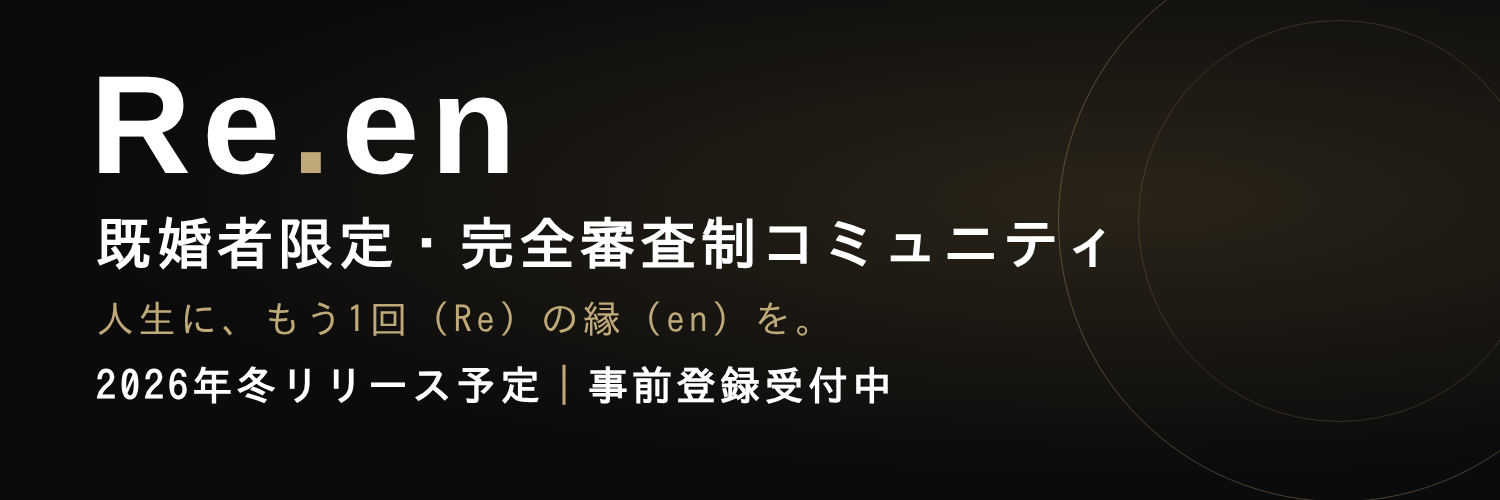
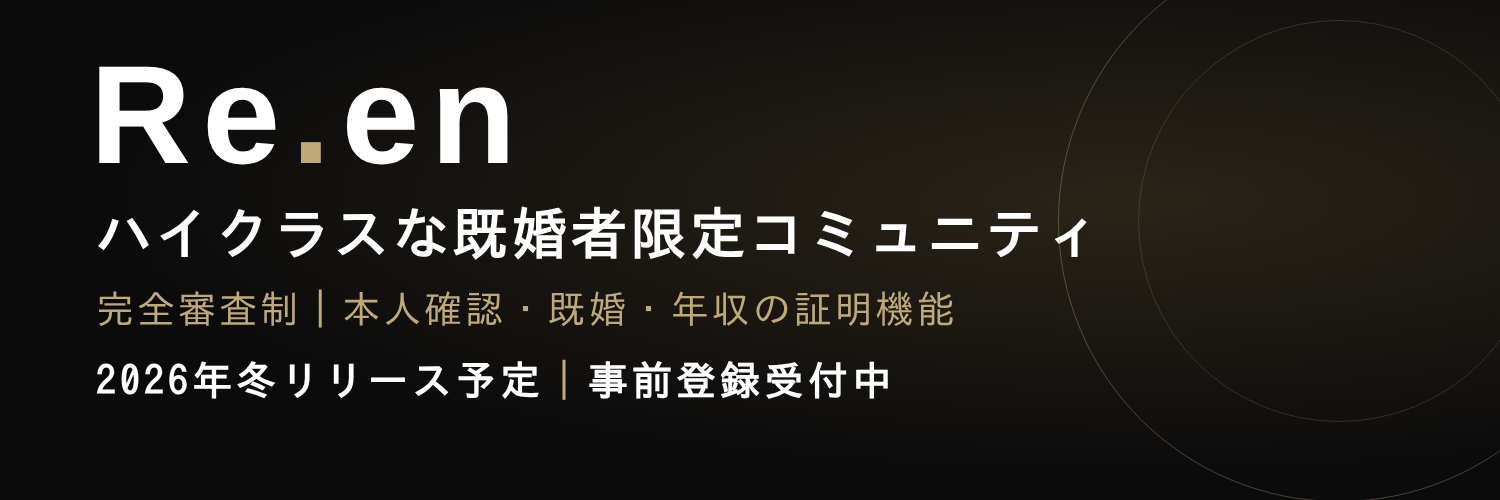
Rework X header, bio, pinned posts and first 5 posts around high-class positioning
Claude-Session: https://claude.ai/code/session_01YNCV2kFVxogiruuDrDwfHA

diff --git a/docs/marketing/x/account_setup_and_first_posts.md b/docs/marketing/x/account_setup_and_first_posts.md
@@ -1,121 +1,139 @@
-# Re.en 公式X：アカウント設定素材 ＋ 最初の投稿5本（確認用ドラフト）
+# Re.en 公式X：アカウント設定素材 ＋ 投稿案（ハイクラス版）
 
 作成日: 2026-10-10 / 状態: **ユーザー確認待ち（未投稿）**
 
+差別化の軸: **ハイクラスな既婚者限定・完全審査制のコミュニティ**（他社の既婚者マッチングとの違い）。
 事実の出どころは `index.html` / `pricing.html`（2026-10-10時点）。LPに無い数字・機能・実績は書かない。
 
 ---
 
 ## 1. アカウント設定
 
-### 基本情報
 | 項目 | 推奨 |
 |---|---|
-| 表示名 | `Re.en（リエン）｜既婚者限定・完全審査制` |
-| ユーザー名（@） | 候補: `@reen_jp` / `@reen_official` / `@reen_club`（空いている最初のもの。取得後に確認） |
-| アイコン | `assets/x_icon_400x400.png`（既存のfaviconと同一ブランド） |
-| ヘッダー | `assets/x_header_1500x500.png`（スマホは左右が少し切れるため文字を左寄せにしてある） |
-| 場所 | 日本 |
+| 表示名 | `Re.en（リエン）｜ハイクラス既婚者限定`（50字以内） |
+| ユーザー名（@） | 候補: `@Reen_jp`（推奨）/ `@Reen_official` / `@Reen_club`（`@Reen` は使用済み） |
+| アイコン | `assets/x_icon_400x400.png` |
+| ヘッダー | `assets/x_header_1500x500.png`（「ハイクラスな既婚者限定コミュニティ」「完全審査制｜本人確認・既婚・年収の証明機能」「2026年冬リリース予定｜事前登録受付中」） |
 | Webサイト | `https://re-en.jp/preregister.html?utm_source=x&utm_medium=profile&utm_campaign=bio` |
 
-### プロフィール文（160字以内。候補A推奨）
-
-**候補A（安心・審査を前面に）**
+### プロフィール文（候補A推奨）
+**候補A**
 ```
-既婚者限定・完全審査制のコミュニティ「Re.en」の公式です。
-本人確認済み／写真ぼかし／電話番号ブロックで、安心して使える設計。
+ハイクラスな既婚者のための、完全審査制コミュニティ「Re.en」公式。
+本人確認・既婚証明・年収証明の機能と、写真ぼかし／電話番号ブロックで、安心して話せる場所に。
 2026年冬リリース予定。創設メンバー先着1,000名の事前登録受付中
-↓
 ```
-**候補B（共感を前面に）**
+**候補B**
 ```
-家庭でも職場でもない、もうひとつの居場所を。
-既婚者限定・完全審査制「Re.en」公式。
+肩書きを下ろして話せる、品格ある大人の居場所を。
+ハイクラスな既婚者限定・完全審査制「Re.en」公式。
 2026年冬リリース予定／事前登録受付中
 ```
 
-### 固定ポスト（プロフィールに固定する1本）
+### 固定ポスト（3案。推奨はA）
+**A（標準）**
 ```
-Re.en（リエン）は、既婚者限定の完全審査制コミュニティです。
+Re.en（リエン）｜ハイクラスな既婚者限定・完全審査制コミュニティ
 
-・本人確認書類による審査
-・写真のぼかし／電話番号ブロックなどのプライバシー機能
-・ブラウザで使えて、アプリのインストール不要
+✔ 本人確認＋運営による審査
+✔ 既婚証明・年収証明の機能
+✔ 写真ぼかし・電話番号ブロック
 
-2026年冬リリース予定。
-創設メンバー先着1,000名は、男性の有料プランが2ヶ月無料（審査通過者）。
-女性は全機能が無料です。
+2026年冬リリース予定。創設メンバー先着1,000名を募集中
+▼事前登録
+https://re-en.jp/preregister.html?utm_source=x&utm_medium=social&utm_campaign=pin_a
+```
+**B（流れ型）**
+```
+誰でも入れるわけではない、既婚者のための場所。
+Re.en（リエン）は、完全審査制のハイクラスコミュニティです。
 
-事前登録はこちら
-https://re-en.jp/preregister.html?utm_source=x&utm_medium=social&utm_campaign=pinned
+事前登録の流れ
+① 基本情報を登録
+② 本人確認書類を提出し、運営が審査
+③ 2026年冬の本リリースで利用開始
+▼事前登録
+https://re-en.jp/preregister.html?utm_source=x&utm_medium=social&utm_campaign=pin_b
+```
+**C（短く・共感）**
+```
+肩書きを下ろして話せる、品格ある大人の居場所を。
+
+Re.en（リエン）
+ハイクラスな既婚者限定・完全審査制
+2026年冬リリース予定／事前登録受付中
+
+▼創設メンバー先着1,000名
+https://re-en.jp/preregister.html?utm_source=x&utm_medium=social&utm_campaign=pin_c
 ```
 
 ### 設定時の注意
-- 「センシティブな内容」の設定は、アカウント作成直後は自分で付けない（付けると露出が下がる）。
+- 「センシティブな内容」の設定は、作成直後は自分で付けない（付けると露出が下がる）。
 - 最初の1週間は、フォロー・いいねを機械的に大量に行わない（凍結リスク）。
-- 投稿に「絶対にバレない」のような断定は使わない。LPの機能説明の範囲で書く。
+- 断定（「絶対にバレない」など）は使わない。
 
 ---
 
 ## 2. 最初の投稿5本（ドラフト）
 
-UTMは投稿ごとに `utm_campaign` を変えて、どの型が登録に効くか見分けます。
+投稿ごとに `utm_campaign` を変えて、どの型が登録に効くか見分ける。文字数は、無料アカウントの上限（全角140字相当）に収まるよう調整済み。
 
-### 投稿1：自己紹介（共感）　`utm_campaign=p01_intro`
+### 投稿1：自己紹介（ハイクラス）
 ```
-家庭でも、職場でもない。
-肩書きも役割も下ろして、ただ話せる場所があったら。
+肩書きも役割も下ろして、ただ話せる場所を。
+ただし、誰でも入れる場所ではありません。
 
-そんな「もうひとつの居場所」をつくっています。
-既婚者限定・完全審査制のコミュニティ、Re.en（リエン）。
+社会的な信頼と、品格を備えた大人のために。
 
+Re.en（リエン）
+ハイクラスな既婚者限定・完全審査制のコミュニティ。
 2026年冬リリース予定です。
 ```
-
-### 投稿2：安全性（審査）　`utm_campaign=p02_verify`
+### 投稿2：ハイクラスを支える審査・証明
 ```
-Re.enでは、利用開始前に審査があります。
+質の高いコミュニティは、入口で決まります。
 
-運転免許証やマイナンバーカードなどでの本人確認・年齢確認。
-なりすましや18歳未満の登録を防ぐためです。
+Re.enの入口
+・本人確認・年齢確認の審査
+・戸籍謄本などによる「既婚証明」
+・源泉徴収票などによる「年収証明」
+（証明を完了すると、プロフィールにバッジが付きます）
 
-安心して話せる場所は、入口で決まると考えています。
+信頼を、見える形に。
 ```
-
-### 投稿3：プライバシー機能　`utm_campaign=p03_privacy`
+### 投稿3：立場がある人のプライバシー
 ```
-知っている人に見られたくない。
-その不安に、機能で応えます。
+立場がある人ほど、知られたくない。
+だから、守る仕組みを先に作りました。
 
 ・登録した電話番号の相手には、プロフィールを非表示
-・写真は「ぼかし」が標準。見せたい相手にだけ限定公開
+・写真は「ぼかし」が標準
 ・ニックネームで利用。本名やSNS連携は不要
 
 ブラウザで使えるので、スマホにアプリも残りません。
 ```
-
-### 投稿4：問いかけ（返信を集める）　`utm_campaign=p04_question`
+### 投稿4：問いかけ（リンクなし・返信集め）
 ```
-配偶者への感謝はある。
-でも、自分のことを話せる相手は、いつの間にか減っている。
+社会的な立場も、家庭での役割もある。
+そのぶん、肩書き抜きで話せる相手は少なくなる。
 
 そんな感覚、ありますか？
 
 責めずに聞かせてください。コメントでも、いいねだけでも。
 ```
-※リンクは貼らない投稿。返信とプロフィール訪問を集める目的。
-
-### 投稿5：創設メンバー募集　`utm_campaign=p05_founding`
+### 投稿5：創設メンバー募集
 ```
-Re.en 創設メンバーを募集しています。
+Re.en 創設メンバー、先着1,000名を募集中。
 
-・先着1,000名
-・審査を通過した男性会員は、有料プランが2ヶ月無料
+ハイクラスな既婚者のための、完全審査制コミュニティ。
+
+・審査を通過した男性会員は、有料プラン2ヶ月無料
 ・女性会員は全機能無料
 ・リリースは2026年冬予定
 
 枠に達し次第、特典は終了します。
-事前登録はこちら
+▼事前登録
 https://re-en.jp/preregister.html?utm_source=x&utm_medium=social&utm_campaign=p05_founding
 ```
 
@@ -124,6 +142,8 @@ https://re-en.jp/preregister.html?utm_source=x&utm_medium=social&utm_campaign=p0
 ## 3. 投稿時の確認（レギュレーション）
 - 「専門家監修」「心理カウンセラー監修」など、裏付けのない権威づけは書かない。
 - 配偶者・家族を欺く方法の指南は書かない。
+- 「ハイクラス」は、LPの位置づけ（ハイクラスな大人のためのコミュニティ）として使う。会員数・年収・職業などの実績は、リリース前なので書かない。根拠は審査・証明機能（本人確認／既婚証明／年収証明）で示す
+- 他社アプリの名指し比較・悪口は書かない（差別化は、自社の審査・証明・プライバシーで示す）
 - 数字は LP と同じもの（先着1,000名／2ヶ月無料／2026年冬）だけ使う。
 - 料金プランは `pricing.html` で「準備中」の表示なので、月額料金は投稿しない。
 
